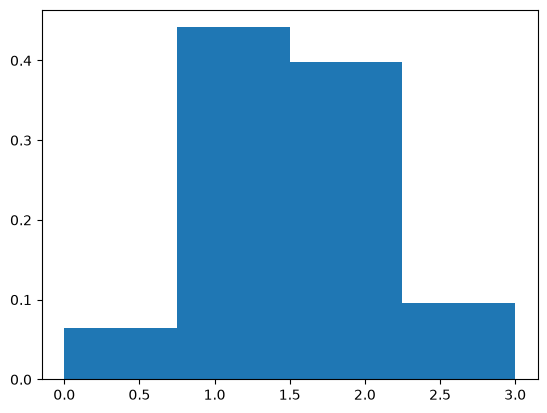
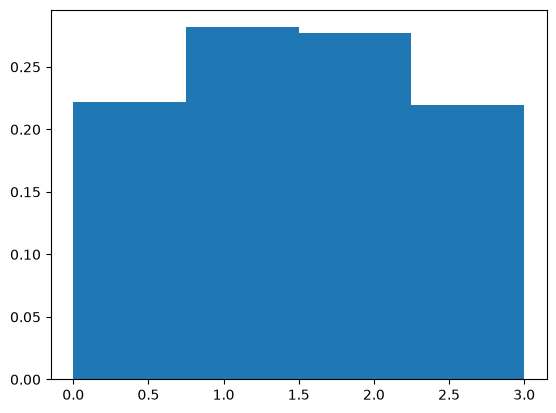
Update QGAN documentation

diff --git a/notebooks/04-quantum-machine-learning/README.md b/notebooks/04-quantum-machine-learning/README.md
@@ -2,7 +2,7 @@
 
 Quantum machine learning connects classical data to quantum circuits. A feature map encodes an input as a quantum state, a quantum kernel compares encoded states, and a variational classifier trains circuit parameters to produce useful predictions. A quantum generative model instead learns a probability distribution.
 
-[Quantum kernels](quantum-kernels.ipynb) combines a quantum feature map with a support-vector classifier. [Variational classification](variational-classifier.ipynb) trains a parameterized circuit with a classical optimizer. [The quantum generative model](quantum-generative-model.ipynb) combines a quantum generator with a classical PyTorch discriminator.
+[Quantum kernels](quantum-kernels.ipynb) combines a quantum feature map with a support-vector classifier. [Variational classification](variational-classifier.ipynb) trains a parameterized circuit with a classical optimizer. [The quantum generative model](quantum-generative-model.ipynb) trains a finite-shot Qiskit generator against a classical PyTorch discriminator.
 
 ## Conceptual interpretation
 
@@ -14,18 +14,18 @@ A quantum kernel measures similarity through the overlap between feature-map sta
 
 The saved classifier scores range from 0.90 to 1.00 in the selected examples. However, the breast-cancer notebooks fit PCA and scaling before dividing the data into training and test sets. Information from the test set therefore affects preprocessing, so these scores should remain illustrative until preprocessing is fitted on the training data alone.
 
-In the generative experiment, a two-qubit parameterized circuit learns probabilities over four possible values. A classical discriminator supplies the training signal that changes the generator parameters.
+In the generative experiment, a two-qubit parameterized circuit learns probabilities over four possible values. Training uses samples from 100 circuit shots at a time, while a separate shot-free evaluation calculates the distribution and relative entropy. A classical discriminator supplies the signal used to update the generator parameters.
 
 ![QGAN generated distribution](../../results/04-quantum-machine-learning/qgan-generated-distribution.png)
 
-*The trained generator places most of its probability on the two central values, following the main shape of the binomial training data.*
+*The generator assigns about 0.28 probability to each central value and about 0.22 to each outer value. It learns the correct ordering, but its result remains flatter than the binomial training distribution.*
 
-The relative entropy compares the generated distribution with the target distribution. It falls overall during training but is not monotonic, which reflects the competing updates of the generator and discriminator.
+The generator and discriminator losses fluctuate around their adversarial balance, partly because training uses finite-shot estimates. Relative entropy gives a more direct comparison with the target distribution. It decreases from about 0.135 to 0.096 over 100 epochs, with small reversals during training.
 
 ![QGAN relative entropy](../../results/04-quantum-machine-learning/qgan-relative-entropy.png)
 
-*The final relative entropy is much lower than its initial value, although the temporary rise shows that adversarial training does not improve steadily at every epoch.*
+*The downward trend shows measurable learning, while the nonzero final value and the flat generated histogram show that the target distribution has not been reproduced completely.*
 
 ## Implementation status
 
-All three notebooks use current Qiskit Machine Learning components and contain saved local outputs. Their small datasets, ideal simulation, and limited evaluation do not demonstrate quantum advantage. The high-energy-physics uses of classification and generative modelling are discussed in [applications](../../docs/applications.md), and the modernization approach is explained in [About the notebooks](../README.md).
+All three notebooks use current Qiskit Machine Learning components and contain saved local outputs. The replacement generative notebook also records its Qiskit, Qiskit Machine Learning, and PyTorch versions. Its small distribution, local simulation, and partial fit make it a demonstration of hybrid adversarial training rather than evidence of quantum advantage. The high-energy-physics uses of classification and generative modelling are discussed in [applications](../../docs/applications.md), and the modernization approach is explained in [About the notebooks](../README.md).
